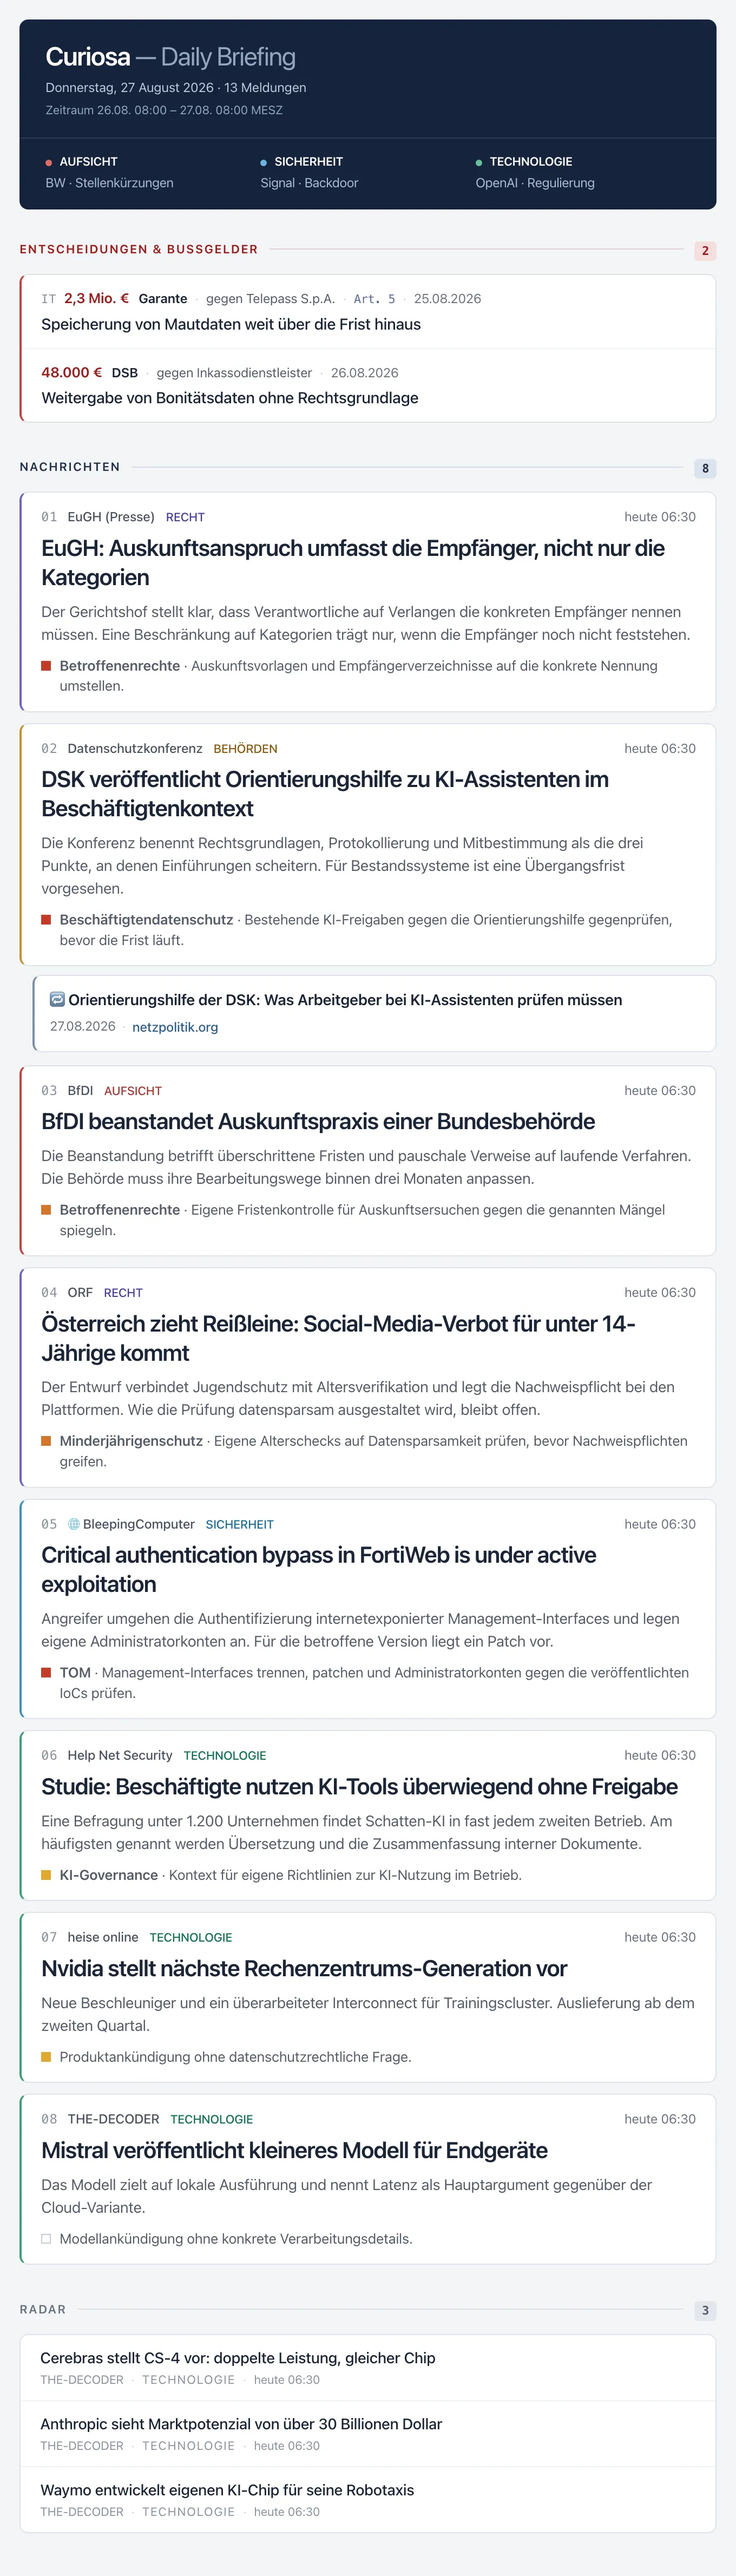
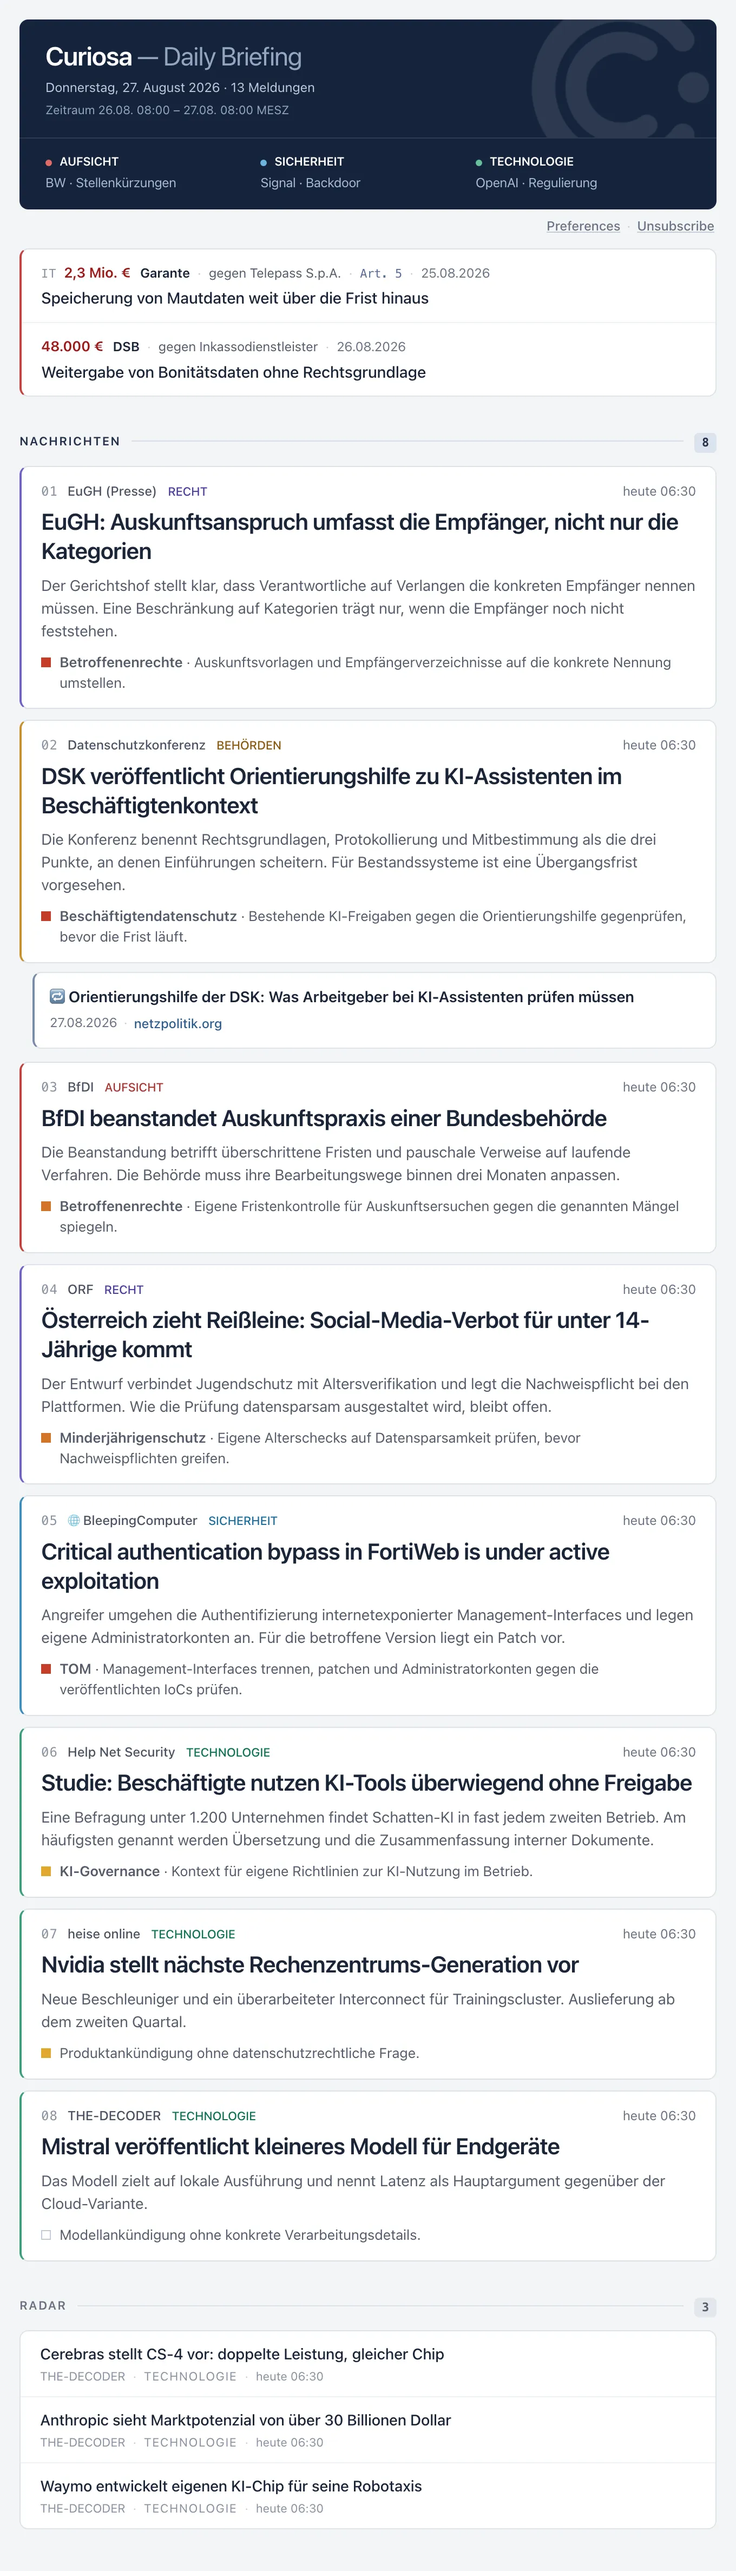
Offer Editorial in place of Priority
- Preview sheets for Editorial; Priority's are gone. Standard's are
  regenerated without the heading above the decisions block.
- German copy for Editorial, and the layout group now says how a story is
  set rather than how much weight it gets — no layout changes the weight.

diff --git a/site-i18n.js b/site-i18n.js
@@ -19,13 +19,13 @@
         "The stories and the ranking stay the same. What changes is how a card is drawn and where the fines block sits.":
             "Die Meldungen und ihre Reihenfolge bleiben gleich. Es ändert sich, wie eine Karte gezeichnet wird und wo der Bußgeld-Block steht.",
         "Card layout": "Kartenlayout",
-        "How much weight each story gets.": "Wie viel Gewicht jede Meldung bekommt.",
+        "How each story is set on the page.": "Wie jede Meldung auf der Seite gesetzt ist.",
         "Standard": "Standard",
         "Every story in one card size, each with its recommendation.":
             "Jede Meldung in einer Kartengröße, jeweils mit Handlungsempfehlung.",
-        "Priority": "Priorität",
-        "Top-band stories lead with a badge and keep their recommendation; the rest read as headlines.":
-            "Meldungen der höchsten Stufe führen mit einer Plakette und behalten ihre Empfehlung; der Rest liest sich als Schlagzeile.",
+        "Editorial": "Editorial",
+        "The same stories and recommendations, set more quietly: a dark header, a relevance bar, fines in a column and plain cards.":
+            "Dieselben Meldungen und Empfehlungen, ruhiger gesetzt: dunkler Kopf, Relevanzbalken, Bußgelder in einer Spalte und schlichte Karten.",
         "Decisions & fines": "Entscheidungen & Bußgelder",
         "Where the block of decisions and fines sits in the issue.":
             "Wo der Block mit Entscheidungen und Bußgeldern in der Ausgabe steht.",

diff --git a/personalisation/index.html b/personalisation/index.html
@@ -56,7 +56,7 @@
                 <section class="card">
                     <div class="card-heading">
                         <h2 data-i18n>Card layout</h2>
-                        <p data-i18n>How much weight each story gets.</p>
+                        <p data-i18n>How each story is set on the page.</p>
                     </div>
                     <div id="theme-options" class="mode-switch" role="radiogroup" aria-label="Card layout"></div>
                 </section>
